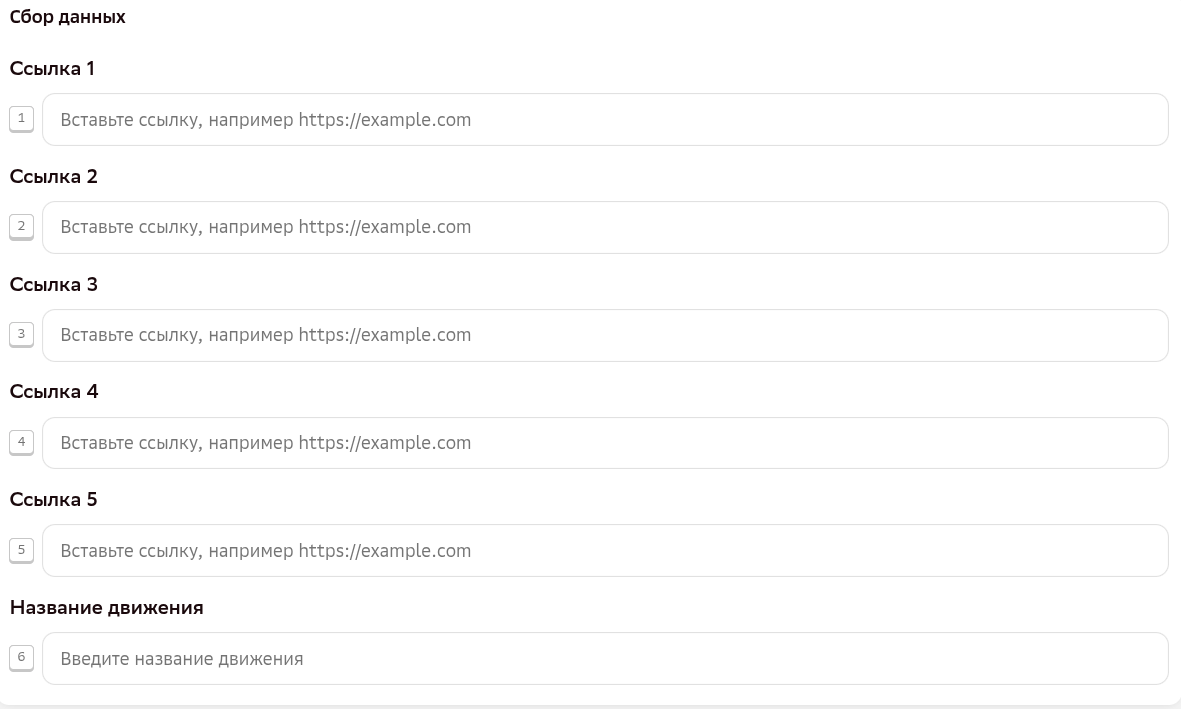
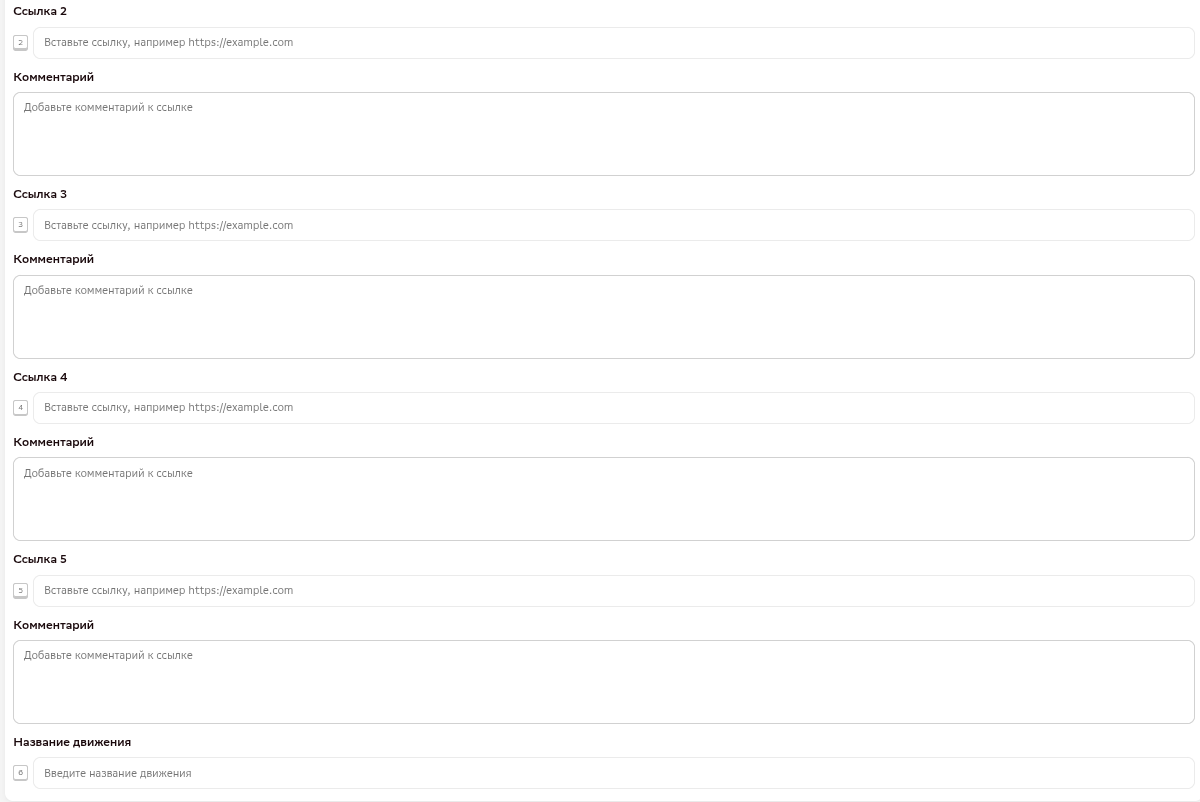
Перезапуск проектов 23.09.2026: комментарий-таймкод к каждой ссылке, общий пул, бронирование в черновике
- Новое обязательное поле «Комментарий» (временной диапазон) для всех 5 ссылок, старые видео можно переиспользовать
- Скриншоты интерфейса задания обновлены под новую форму
- Пулы теперь общие на всю заявку (было по одному пулу на человека) — постоянное изменение
- Бронирование движения+ссылки в общем черновике перед Tagme (Ctrl+F, канал в Mattermost); архивные движения не считаются
- Всплывающее окно с названием пула при его смене
- Смягчён критерий «Различимость людей» (по пояс + голова) и уточнено «Несколько человек в кадре» (передний план — только то же движение)
- Подтверждено официальными инструкциями всех трёх заявок: «распад на полосы» и запрет коллажей — общие правила

diff --git a/site/criteria.html b/site/criteria.html
@@ -42,7 +42,7 @@
     <section id="task-format">
       <p class="eyebrow">ИНТЕРФЕЙС</p>
       <h2>Формат задания</h2>
-      <p>Каждое задание — это <strong>одно конкретное движение</strong> (или связка движений). Открывая задание, вы видите шесть полей: пять — под ссылки, одно — под название движения.</p>
+      <p>Каждое задание — это <strong>одно конкретное движение</strong> (или связка движений). Открывая задание, вы видите шесть полей: пять — под ссылки (у каждой ссылки есть своё поле «Комментарий» для временного диапазона движения), одно — под название движения.</p>
 
       <div class="callout ok">
         <div class="callout-title">❗ Главное: одно задание = комплект видео ОДНОГО движения, а не одно видео</div>
@@ -68,9 +68,15 @@
           <tbody>
             <tr id="field-link1"><td class="num field">Ссылка 1</td><td>Эталонное видео — лучшее по качеству и разрешению, <strong>HD (1280×720)</strong> обязательно. Тщательно по <a href="blockiness.html">блочности</a> не проверяем, но видео не должно быть <strong>откровенно битым</strong>.</td></tr>
             <tr id="field-link2-5"><td class="num field">Ссылка 2–5</td><td>Остальные видео того же движения; допустимо более низкое качество, но не менее 512&nbsp;px по меньшей стороне. Детально по блочности не проверяются — важно только, чтобы само действие было идентичным.</td></tr>
+            <tr id="field-comment"><td class="num field">Комментарий (к каждой ссылке)</td><td>Для <strong>каждой из пяти ссылок</strong> — временной диапазон, где именно на видео происходит движение, например <code>3:05–3:12</code> или «с 3 по 9 секунду». Поле <strong>обязательное</strong> — без заполненного комментария хотя бы к одной ссылке задание не отправится.</td></tr>
             <tr id="field-name"><td class="num field">Название движения</td><td>1–5 слов <strong>на русском языке</strong>, точное и конкретное — не абстрактное, не поза и не жанр/дисциплина, без опечаток и орфографических ошибок, без неточных формулировок. <strong>Не через слэш и не перечислением через запятую</strong> — если у движения есть несколько вариантов названия, выбираем только <strong>один</strong>. Даже если движение известно под иностранным термином (например, элемент из зарубежного вида спорта или танца) — название всё равно пишем по-русски. Примеры формулировок: <em>умывание</em>, <em>колка дров</em>, <em>работа за клавиатурой</em>, <em>мытьё головы</em>, <em>приготовление еды на улице</em>. Пример/антипример по каждой заявке — в таблице ниже.</td></tr>
           </tbody>
         </table>
+      </div>
+
+      <div class="callout ok">
+        <div class="callout-title">✓ Старые видео тоже можно использовать</div>
+        <p style="margin-bottom:0;">Если вы уверены, что в уже найденном ранее видео есть идентичное движение, — его можно использовать повторно. Обязательно укажите временной диапазон движения в комментарии к ссылке (см. поле «Комментарий» выше).</p>
       </div>
 
       <h3>Название движения: пример / антипример по заявкам</h3>
@@ -94,7 +100,7 @@
 
       <div class="callout warn">
         <div class="callout-title">⚠ Минимум для отправки</div>
-        <p>При добавлении только одной ссылки задание отправить нельзя. Минимально допустимое — <strong>2 видео</strong>, если по ним явно и полностью понятно, что движения идентичны (та же траектория, те же руки/ноги и т.п.). Целевое количество — <strong>5 видео</strong>, особенно для простых движений, где легко найти пять полностью идентичных примеров.</p>
+        <p>При добавлении только одной ссылки задание отправить нельзя. Минимально допустимое — <strong>2 видео</strong>, если по ним явно и полностью понятно, что движения идентичны (та же траектория, те же руки/ноги и т.п.). Целевое количество — <strong>5 видео</strong>, особенно для простых движений, где легко найти пять полностью идентичных примеров. Без заполненного <strong>комментария</strong> (временного диапазона) хотя бы к одной ссылке задание тоже не отправится.</p>
       </div>
 
       <h3 id="simple-complex">Что считается «простым» и «сложным» движением</h3>
@@ -131,6 +137,7 @@
         <div class="callout-title">⚠ Перед отправкой задания — проверьте себя</div>
         <ul style="margin-bottom:0;">
           <li>В <strong>первое</strong> поле внесена ссылка на эталонное видео (HD + не откровенно битое).</li>
+          <li>К <strong>каждой</strong> из пяти ссылок добавлен комментарий с временным диапазоном движения — без него задание не отправится.</li>
           <li>Заполнено поле «Название движения» — точно, без опечаток, не абстрактно, <strong>на русском языке</strong> (даже для иностранных терминов), <strong>один вариант названия</strong> — без слэшей и перечислений через запятую.</li>
         </ul>
       </div>
@@ -220,8 +227,8 @@
           <colgroup><col style="width:22%"><col style="width:39%"><col style="width:39%"></colgroup>
           <thead><tr><th>Параметр</th><th class="za">Подходит</th><th class="protiv">Не подходит</th></tr></thead>
           <tbody>
-            <tr id="crit-razlichimost-lyudey"><td>Различимость людей</td><td class="za">✅ Человек, выполняющий движение, <strong>хорошо виден и различим</strong>, <strong>виден полностью</strong>.</td><td class="protiv">❌ Человек <strong>снят издалека</strong>; один человек <strong>теряется в толпе</strong> (например, трибуны на матче); в кадре видна <strong>только часть тела</strong> (например, только ноги).</td></tr>
-            <tr id="crit-neskolko-chelovek"><td>Несколько человек в кадре</td><td class="za">✅ В кадре несколько человек, но <strong>хотя бы один чётко выполняет движение</strong>, <strong>остальные — просто на фоне</strong>.</td><td class="protiv">❌ <strong>Непонятно, кто</strong> из людей в кадре выполняет движение.</td></tr>
+            <tr id="crit-razlichimost-lyudey"><td>Различимость людей</td><td class="za">✅ Человек, выполняющий движение, <strong>хорошо виден и различим</strong> — минимум <strong>по пояс и обязательно с головой</strong> (виден полностью — тоже подходит).</td><td class="protiv">❌ Человек <strong>снят издалека</strong>; один человек <strong>теряется в толпе</strong> (например, трибуны на матче); в кадре видны <strong>только руки</strong> или <strong>только ноги</strong> — без остального тела.</td></tr>
+            <tr id="crit-neskolko-chelovek"><td>Несколько человек в кадре</td><td class="za">✅ В кадре несколько человек: если один <strong>чётко выполняет движение</strong> — остальные допустимы <strong>на фоне</strong> (даже если делают что-то своё) или <strong>на переднем плане</strong>, если тоже выполняют то же самое движение.</td><td class="protiv">❌ <strong>Непонятно, кто</strong> из людей в кадре выполняет движение; либо на переднем плане есть человек, который выполняет <strong>другое</strong> действие (не то же движение).</td></tr>
           </tbody>
         </table>
       </div>
@@ -249,7 +256,7 @@
         </figure>
         <figure style="margin:0;">
           <img src="assets/corner-case-partial-body.jpg" alt="Пример: человек виден только ниже пояса — видео не подходит" style="width:100%; display:block; border-radius:var(--radius-m); border:1px solid var(--line);">
-          <figcaption class="img-caption"><span class="status-badge fail">❌ Не подходит</span>Человек виден только ниже пояса — нужно видео, где он виден полностью.</figcaption>
+          <figcaption class="img-caption"><span class="status-badge fail">❌ Не подходит</span>Человек виден только ниже пояса — нужно видео, где он виден минимум по пояс и обязательно с головой.</figcaption>
         </figure>
         <figure style="margin:0;">
           <video controls preload="metadata" src="assets/corner-case-too-simple.mp4" style="display:block; width:100%; height:auto; border-radius:var(--radius-m); border:1px solid var(--line); background:#000;"></video>

diff --git a/site/assets/search-index.js b/site/assets/search-index.js
@@ -22,11 +22,13 @@ window.SITE_SEARCH_INDEX = [
   { page: "overview.html", anchor: "terms", title: "Главные термины: ГО и блочность", section: "Обзор проекта",
     keywords: "го главный объект блочность артефакт сжатия макроблоки" },
   { page: "overview.html", anchor: "start", title: "Как попасть на проект: экзамен, пулы", section: "Обзор проекта",
-    keywords: "экзамен 20 заданий 85% проходной балл распределение пул интерфейс экзамена отличается от рабочего рамки вторая попытка больше 3 ошибок доступ автоматически пересдача частично размеченный пул таблица уже собранных движений google sheets повторы новый сотрудник" },
+    keywords: "экзамен 20 заданий 85% проходной балл распределение пул общий пул все исполнители одновременно интерфейс экзамена отличается от рабочего рамки вторая попытка больше 3 ошибок доступ автоматически пересдача всплывающее окно название пула" },
   { page: "overview.html", anchor: "exam-rules", title: "Что важно на экзамене — уточнения заказчика", section: "Обзор проекта → Как попасть на проект",
     keywords: "экзамен блочность не оцениваем мелкая моторика не причина коротче 5 секунд длиннее 30 минут технический артефакт распад на полосы коллажи" },
+  { page: "overview.html", anchor: "draft-booking", title: "Общий пул — бронирование в черновике перед Tagme", section: "Обзор проекта → Как попасть на проект",
+    keywords: "черновик бронирование ctrl+f дубли повторы mattermost канал проекта таблица движение ссылка перезапуск проекта архивный проект новый сбор" },
   { page: "overview.html", anchor: "process", title: "Как устроена проверка", section: "Обзор проекта",
-    keywords: "битое задание пул открывается автоматически регион недоступно задним числом правила" },
+    keywords: "битое задание пул открывается автоматически общий пул все исполнители одновременно регион недоступно задним числом правила" },
 
   // ---------- criteria.html: формат задания ----------
   { page: "criteria.html", anchor: "task-format", title: "Формат задания: шесть полей", section: "Правила отбора видео",
@@ -35,6 +37,8 @@ window.SITE_SEARCH_INDEX = [
     keywords: "эталонное видео hd 1280x720 разрешение блочность поле 1" },
   { page: "criteria.html", anchor: "field-link2-5", title: "Поле «Ссылка 2–5» — остальные видео", section: "Правила отбора видео → Как заполнять поля",
     keywords: "512 px меньшая сторона качество остальные видео детально по блочности не проверяются" },
+  { page: "criteria.html", anchor: "field-comment", title: "Поле «Комментарий» — временной диапазон движения", section: "Правила отбора видео → Как заполнять поля",
+    keywords: "комментарий временной диапазон таймкод к каждой ссылке обязательное поле без комментария не отправится старые видео повторное использование" },
   { page: "criteria.html", anchor: "field-name", title: "Поле «Название движения»", section: "Правила отбора видео → Как заполнять поля",
     keywords: "1-5 слов умывание колка дров работа за клавиатурой мытьё головы приготовление еды на русском языке иностранный термин английский без слэша через запятую один вариант названия орфографические ошибки" },
   { page: "criteria.html", anchor: "task-format", title: "Простое и сложное движение — примеры видео", section: "Правила отбора видео",
@@ -70,9 +74,9 @@ window.SITE_SEARCH_INDEX = [
   { page: "criteria.html", anchor: "crit-isklyuchenie-2sek", title: "Исключение — видео от 2 секунд", section: "Критерии отбора",
     keywords: "короткое видео завершено одно в комплекте два секунды" },
   { page: "criteria.html", anchor: "crit-razlichimost-lyudey", title: "Критерий: различимость людей", section: "Критерии отбора",
-    keywords: "издалека толпа трибуны матч видна только часть тела ноги ниже пояса" },
+    keywords: "издалека толпа трибуны матч видна только часть тела только руки только ноги по пояс с головой ниже пояса" },
   { page: "criteria.html", anchor: "crit-neskolko-chelovek", title: "Критерий: несколько человек в кадре", section: "Критерии отбора",
-    keywords: "фон непонятно кто выполняет" },
+    keywords: "фон непонятно кто выполняет передний план другое действие то же движение" },
   { page: "criteria.html", anchor: "crit-tekst-predmety", title: "Критерий: текст / предметы / выход за кадр", section: "Критерии отбора",
     keywords: "перекрытие наложение текст предмет частичный выход за кадр" },
   { page: "criteria.html", anchor: "crit-votermarki", title: "Критерий: вотермарки", section: "Критерии отбора",
@@ -114,7 +118,7 @@ window.SITE_SEARCH_INDEX = [
 
   // ---------- request-1075.html ----------
   { page: "request-1075.html", anchor: "about", title: "О заявке 1075 (Повседневность)", section: "Заявка 1075",
-    keywords: "800 видео пулы повседневность_pool tagme название заявки" },
+    keywords: "800 видео пулы повседневность_pool tagme название заявки общий пул все исполнители одновременно" },
   { page: "request-1075.html", anchor: "movement-examples", title: "Примеры движений: уход за собой", section: "Заявка 1075 → Примеры движений",
     keywords: "умывание чистка зубов бритьё нанесение теней нанесение тональной основы сушка волос феном завязывание шнурков пуговицы очки" },
   { page: "request-1075.html", anchor: "movement-examples", title: "Примеры движений: быт и уборка", section: "Заявка 1075 → Примеры движений",
@@ -136,7 +140,7 @@ window.SITE_SEARCH_INDEX = [
 
   // ---------- request-1076.html ----------
   { page: "request-1076.html", anchor: "about", title: "О заявке 1076 (Танцы)", section: "Заявка 1076",
-    keywords: "2000 видео пулы вид танца tagme название заявки" },
+    keywords: "2000 видео пулы вид танца tagme название заявки общий пул все исполнители одновременно" },
   { page: "request-1076.html", anchor: "movement-examples", title: "Пул: Балет — примеры движений", section: "Заявка 1076 → Примеры движений",
     keywords: "плие батман тандю рон де жамб арабеск пируэт гранд жете фуэте па-де-бурре ассамбле тур ан лер" },
   { page: "request-1076.html", anchor: "movement-examples", title: "Пул: Танго — примеры движений", section: "Заявка 1076 → Примеры движений",
@@ -166,7 +170,7 @@ window.SITE_SEARCH_INDEX = [
 
   // ---------- request-1077.html ----------
   { page: "request-1077.html", anchor: "about", title: "О заявке 1077 (Спорт)", section: "Заявка 1077",
-    keywords: "2000 видео пулы вид спорта tagme название заявки" },
+    keywords: "2000 видео пулы вид спорта tagme название заявки общий пул все исполнители одновременно" },
   { page: "request-1077.html", anchor: "movement-examples", title: "Пул: Футбол — примеры движений", section: "Заявка 1077 → Примеры движений",
     keywords: "ведение мяча удар по воротам пас пяткой финт радуга подкат жонглирование мячом" },
   { page: "request-1077.html", anchor: "movement-examples", title: "Пул: Фигурное катание — примеры движений", section: "Заявка 1077 → Примеры движений",

diff --git a/site/overview.html b/site/overview.html
@@ -99,8 +99,8 @@
         </div>
         <div class="flow-step">
           <div class="num">Пул</div>
-          <h4>Один асессор — один пул</h4>
-          <p>Для 1076 и 1077 внутри заявки — пулы по конкретному танцу/спорту; разметчики между собой на пулах не пересекаются.</p>
+          <h4>Один пул — сразу на всех исполнителей заявки</h4>
+          <p>Для 1076 и 1077 внутри заявки пулы идут по конкретному танцу/спорту в фиксированном порядке; сейчас все исполнители заявки работают <strong>одновременно на одном общем пуле</strong>, а не каждый на своём.</p>
         </div>
         <div class="flow-step">
           <div class="num">Старт</div>
@@ -134,9 +134,20 @@
         </ul>
       </div>
 
-      <div class="callout info">
-        <div class="callout-title">📋 Попали на частично размеченный пул? Сверьтесь со списком уже собранных движений</div>
-        <p style="margin-bottom:0;">Если вас назначили на пул, где часть заданий уже выполнена другими асессорами, — перед началом работы откройте <a href="https://docs.google.com/spreadsheets/d/1Q-11PUsDUiiX-5nV0hc8FLO8aC06hDMHzGMNgkK9jCM/edit?gid=520406664#gid=520406664" target="_blank" rel="noopener">таблицу уже собранных движений</a>: там перечислены движения, которые в этом пуле уже собраны и повторно собирать нельзя (см. критерий «<a href="criteria.html#crit-povtory">Повторы</a>»). Таблица периодически обновляется — сверяйтесь с ней регулярно, а не один раз в начале.</p>
+      <div class="callout warn">
+        <div class="callout-title">🔔 Всплывающее окно при смене пула — ориентир для сбора</div>
+        <p style="margin-bottom:0;">При смене пула появляется окошко с его названием (например, «Танго») — собирайте движения именно из этой темы, пока не появится следующее окно со сменой пула.</p>
+      </div>
+
+      <div class="callout info" id="draft-booking">
+        <div class="callout-title">📋 Общий пул — сначала бронируем в черновике, потом вносим в Tagme</div>
+        <p>Сейчас несколько исполнителей работают на одном общем пуле одновременно, поэтому перед тем как вносить задание в Tagme, движение и ссылки нужно забронировать в общей таблице-черновике (своя на каждую заявку, ссылка — в канале проекта в Mattermost), чтобы не собрать то же самое движение дважды (см. критерий «<a href="criteria.html#crit-povtory">Повторы</a>»):</p>
+        <ol>
+          <li>Проверьте по <strong>Ctrl+F</strong>, что ваше движение и ссылка ещё никем не забронированы.</li>
+          <li>Если дубля нет — забронируйте себе движение и ссылку в таблице.</li>
+          <li>Как только все ссылки собраны — переносите задание в Tagme.</li>
+        </ol>
+        <p style="margin-bottom:0;" class="quiet">Движения, собранные до перезапуска проекта (в архивном проекте), не считаются — учёт повторов начался заново.</p>
       </div>
 
       <p class="quiet">Списки пулов по темам — на страницах конкретных заявок (1075 / 1076 / 1077).</p>
@@ -147,8 +158,7 @@
       <h2>Как устроена проверка</h2>
       <ul>
         <li>Если 1–2 ссылки в задании не проходят проверку — задание не дорабатывается: оно целиком уходит в статус «Битое». Отклонённое движение можно собрать заново отдельным новым заданием.</li>
-        <li>Для 1076 и 1077 пулы одному разметчику открываются по одному, а не сразу все — иначе легко не заметить смену темы и продолжить собирать по старой категории. Новый пул подключают и сообщают отдельно по окончании предыдущего.</li>
-        <li>Для 1075 следующий пул открывается автоматически.</li>
+        <li>Пулы теперь общие на всю заявку: все исполнители 1075/1076/1077 работают <strong>одновременно на одном и том же пуле</strong>, а не каждый на своём отдельном, как было раньше. Порядок пулов не изменился (например, 1076 начинает с балета, 1077 — с футбола). Когда общий пул закрыт — всем вместе открывают следующий по порядку.</li>
         <li>Если видео было доступно на момент отправки задания, а потом стало недоступно (или недоступно из другого региона) — ошибку за это не ставят, но валидатор оставляет комментарий.</li>
         <li>Новые уточнения правил применяются только к новым заданиям — задним числом к уже выполненным или проверяемым заданиям они не применяются.</li>
       </ul>

diff --git a/site/request-1075.html b/site/request-1075.html
@@ -45,7 +45,7 @@
       <p>Цель — собрать ссылки на видео, где выполняется одно и то же движение из повседневной жизни: снятое с разных ракурсов, разными людьми, в разных условиях, но по одной и той же траектории. Задача — собрать <strong>800 видео</strong>.</p>
       <p class="name-examples">🏷 <strong>Примеры названий движений:</strong> <em>умывание, колка дров, работа за клавиатурой, вытирание пыли</em>.</p>
       <p><strong>Название заявки в Tagme:</strong><br><code>Заявка_1075_Тариф_2_Kandinsky_collection_video_yt движения_повседневность_v1_ДатаЛайт</code></p>
-      <p><strong>Пулы:</strong> 10 параллельных пулов по 30 заданий каждый, все на одну тему — «Повседневность». Разница между пулами не в теме движений, а просто в потоке распределения заданий: <code>Повседневность_pool_1</code> … <code>Повседневность_pool_10</code>.</p>
+      <p><strong>Пулы:</strong> 10 параллельных пулов по 30 заданий каждый, все на одну тему — «Повседневность». Разница между пулами не в теме движений, а просто в потоке распределения заданий: <code>Повседневность_pool_1</code> … <code>Повседневность_pool_10</code>. Сейчас все исполнители заявки работают одновременно на одном общем пуле (раньше — каждый на своём) — подробности о бронировании движений, чтобы не собрать одно и то же дважды, см. «<a href="overview.html#draft-booking">Обзор проекта</a>».</p>
     </section>
 
     <section id="movement-examples">
@@ -106,7 +106,7 @@
             <source src="assets/1075-example-2-hairwash.mp4" type="video/mp4">
           </video>
           <div class="status">❌ Не подходит</div>
-          <div class="body"><p><strong>Мытьё головы</strong> — видео короче 30 минут, но само движение длится менее 5 секунд, а в последнем сегменте оно перекрыто наложенным текстом.</p></div>
+          <div class="body"><p><strong>Мытьё головы</strong> — видео короче 30 минут, но само движение длится менее 5 секунд, в последнем сегменте оно перекрыто наложенным текстом, и человек виден не полностью.</p></div>
         </div>
 
         <div class="example-card fail">

diff --git a/site/request-1077.html b/site/request-1077.html
@@ -45,7 +45,7 @@
       <p>Цель — собрать ссылки на видео, где выполняется одно и то же движение <strong>из сферы спорта</strong>: снятое с разных ракурсов, разными людьми, в разных условиях, но по одной и той же траектории. Задача — собрать <strong>2000 видео</strong>.</p>
       <p class="name-examples">🏷 <strong>Примеры названий движений:</strong> <em>прыжок, ведение мяча, разворот вокруг своей оси</em>.</p>
       <p><strong>Название заявки в Tagme:</strong><br><code>Заявка_1077_Тариф_2_Kandinsky_collection_video_yt движения_спорт_v1_ДатаЛайт</code></p>
-      <p><strong>Пулы:</strong> 10 пулов по 30 заданий, у каждого пула — свой вид спорта. Один разметчик работает только на одном пуле, между собой пулы не пересекаются.</p>
+      <p><strong>Пулы:</strong> 10 пулов по 30 заданий, у каждого пула — свой вид спорта, идут в фиксированном порядке (начиная с футбола). Сейчас все исполнители заявки работают одновременно на одном общем пуле (раньше — каждый на своём) — подробности о бронировании движений, чтобы не собрать одно и то же дважды, см. «<a href="overview.html#draft-booking">Обзор проекта</a>».</p>
       <div class="table-wrap">
         <table>
           <thead><tr><th>Пул</th><th>Вид спорта</th></tr></thead>

diff --git a/site/request-1076.html b/site/request-1076.html
@@ -45,7 +45,7 @@
       <p>Цель — собрать ссылки на видео, где выполняется одно и то же <strong>танцевальное движение</strong>: снятое с разных ракурсов, разными людьми, в разных условиях, но по одной и той же траектории. Задача — собрать <strong>2000 видео</strong>.</p>
       <p class="name-examples">🏷 <strong>Примеры названий движений:</strong> <em>поклон, дробная дорожка, шаг с носка</em>.</p>
       <p><strong>Название заявки в Tagme:</strong><br><code>Заявка_1076_Тариф_2_Kandinsky_collection_video_yt движения_танцы_v1_ДатаЛайт</code></p>
-      <p><strong>Пулы:</strong> 10 пулов по 30 заданий, у каждого пула — свой вид танца. Один разметчик работает только на одном пуле, между собой пулы не пересекаются.</p>
+      <p><strong>Пулы:</strong> 10 пулов по 30 заданий, у каждого пула — свой вид танца, идут в фиксированном порядке (начиная с балета). Сейчас все исполнители заявки работают одновременно на одном общем пуле (раньше — каждый на своём) — подробности о бронировании движений, чтобы не собрать одно и то же дважды, см. «<a href="overview.html#draft-booking">Обзор проекта</a>».</p>
       <div class="table-wrap">
         <table>
           <thead><tr><th>Пул</th><th>Вид танца</th></tr></thead>

diff --git a/docs/status.md b/docs/status.md
@@ -23,4 +23,5 @@
 | Ответы заказчика на вопросы асессора (22.09.2026): техника движения, ускорение/замедление, повтор ролика | ✅ внесено (2026-09-22) | Кроль на груди/на спине — разные движения (идентичность позы). Ускорение/замедление оценивается **только на фрагменте с движением** — уточнено в строке «Скорость съёмки» (`criteria.html`). Один и тот же ролик можно использовать в разных заданиях для разных движений/связок — не повтор; добавлено в строку «Повторы» + отдельные примечания на `criteria.html`, `request-1077.html`. Отдельно заказчик уточнил: похожие бытовые движения с одинаковой траекторией руки (например, «мытьё плиты» и «вытирание пыли») — это одно и то же движение, повторно не собираем — примечание добавлено на `request-1075.html`. «Человек должен быть виден полностью» — уже было в критерии «Различимость людей», изменений не потребовалось |
 | Вторая попытка экзамена при провале (уточнение заказчика, 22.09.2026) | ✅ внесено (2026-09-22) | Если ошибок в экзамене больше 3 (проходной балл 85% не набран) — доступ ко второй попытке открывается автоматически. Добавлен отдельный callout на `overview.html` (раздел «Как попасть на проект») |
 | Название движения — без слэша и перечислений через запятую (уточнение заказчика, 22.09.2026) | ✅ внесено (2026-09-22) | Если у движения есть несколько вариантов названия — берём один, на русском языке, без орфографических ошибок. Добавлено в поле «Название движения» и в чек-лист «Перед отправкой» на `criteria.html` |
-| Таблица уже собранных движений для частично размеченных пулов | ✅ внесено (2026-09-22) | Google-таблица (обновляется заказчиком/куратором, ссылка в `overview.html`): новым сотрудникам, попавшим на пул, где часть заданий уже выполнена, нужно сверяться с ней перед стартом, чтобы не собрать движение повторно. Добавлен callout в раздел «Как попасть на проект» на `overview.html` со ссылкой: https://docs.google.com/spreadsheets/d/1Q-11PUsDUiiX-5nV0hc8FLO8aC06hDMHzGMNgkK9jCM/edit?gid=520406664#gid=520406664 |
+| Таблица уже собранных движений для частично размеченных пулов | ✅ заменено (2026-09-23) | Google-таблица от 22.09 заменена на новый механизм бронирования в черновике (см. ниже) — старая ссылка на сайте больше не используется |
+| Перезапуск проектов 1075/1076/1077 (23.09.2026): общий пул, бронирование, комментарий с временем к каждой ссылке | ✅ внесено (2026-09-23) | Проверено по трём обновлённым «боевым» инструкциям (1075/1076/1077, обновлены 23.09.2026) и новым скриншотам интерфейса. Внесено: (1) **новое обязательное поле «Комментарий» к каждой из 5 ссылок** — временной диапазон движения, без него задание не отправится; можно использовать старые видео, если движение точно идентично (`criteria.html` — новая строка `field-comment`, обновлены «Минимум для отправки» и чек-лист «Перед отправкой»); скриншоты интерфейса заменены на актуальные (`interface-1.png`, `interface-2.png`); (2) **общий пул на всю заявку** — сейчас все исполнители 1075/1076/1077 работают одновременно на одном пуле (раньше каждый на своём) — это подтверждено как постоянное изменение, не временная ситуация; порядок подпулов не изменился (1076 — с балета, 1077 — с футбола); обновлены `overview.html` (шаг «Пул», раздел «Как устроена проверка») и строки «Пулы» на `request-1075/1076/1077.html`; (3) **бронирование в общем черновике** перед внесением в Tagme (Ctrl+F → проверить дубль → забронировать → внести в Tagme), таблицы-черновики — по одной на заявку, ссылка в канале проекта в Mattermost; движения из архивного (до перезапуска) проекта не считаются — учёт начался заново; новый callout `overview.html#draft-booking`; (4) всплывающее окно с названием пула при его смене — подсказка-ориентир, добавлена в `overview.html`; (5) **уточнён критерий «Различимость людей»** — достаточно, чтобы человек был виден минимум по пояс и обязательно с головой (раньше формулировка «виден полностью» звучала строже, чем есть на самом деле); отдельно добавлено «только руки» к недопустимым случаям; (6) **уточнён критерий «Несколько человек в кадре»** — на переднем плане другие люди допустимы, только если выполняют то же движение; если другое действие — не подходит (пример с крестным знамением из инструкции 1075); (7) подтверждено официальными инструкциями всех трёх заявок: технический артефакт «распад на полосы» и запрет коллажей — общие правила для 1075/1076/1077 (ранее было подтверждено только через 1076) |
